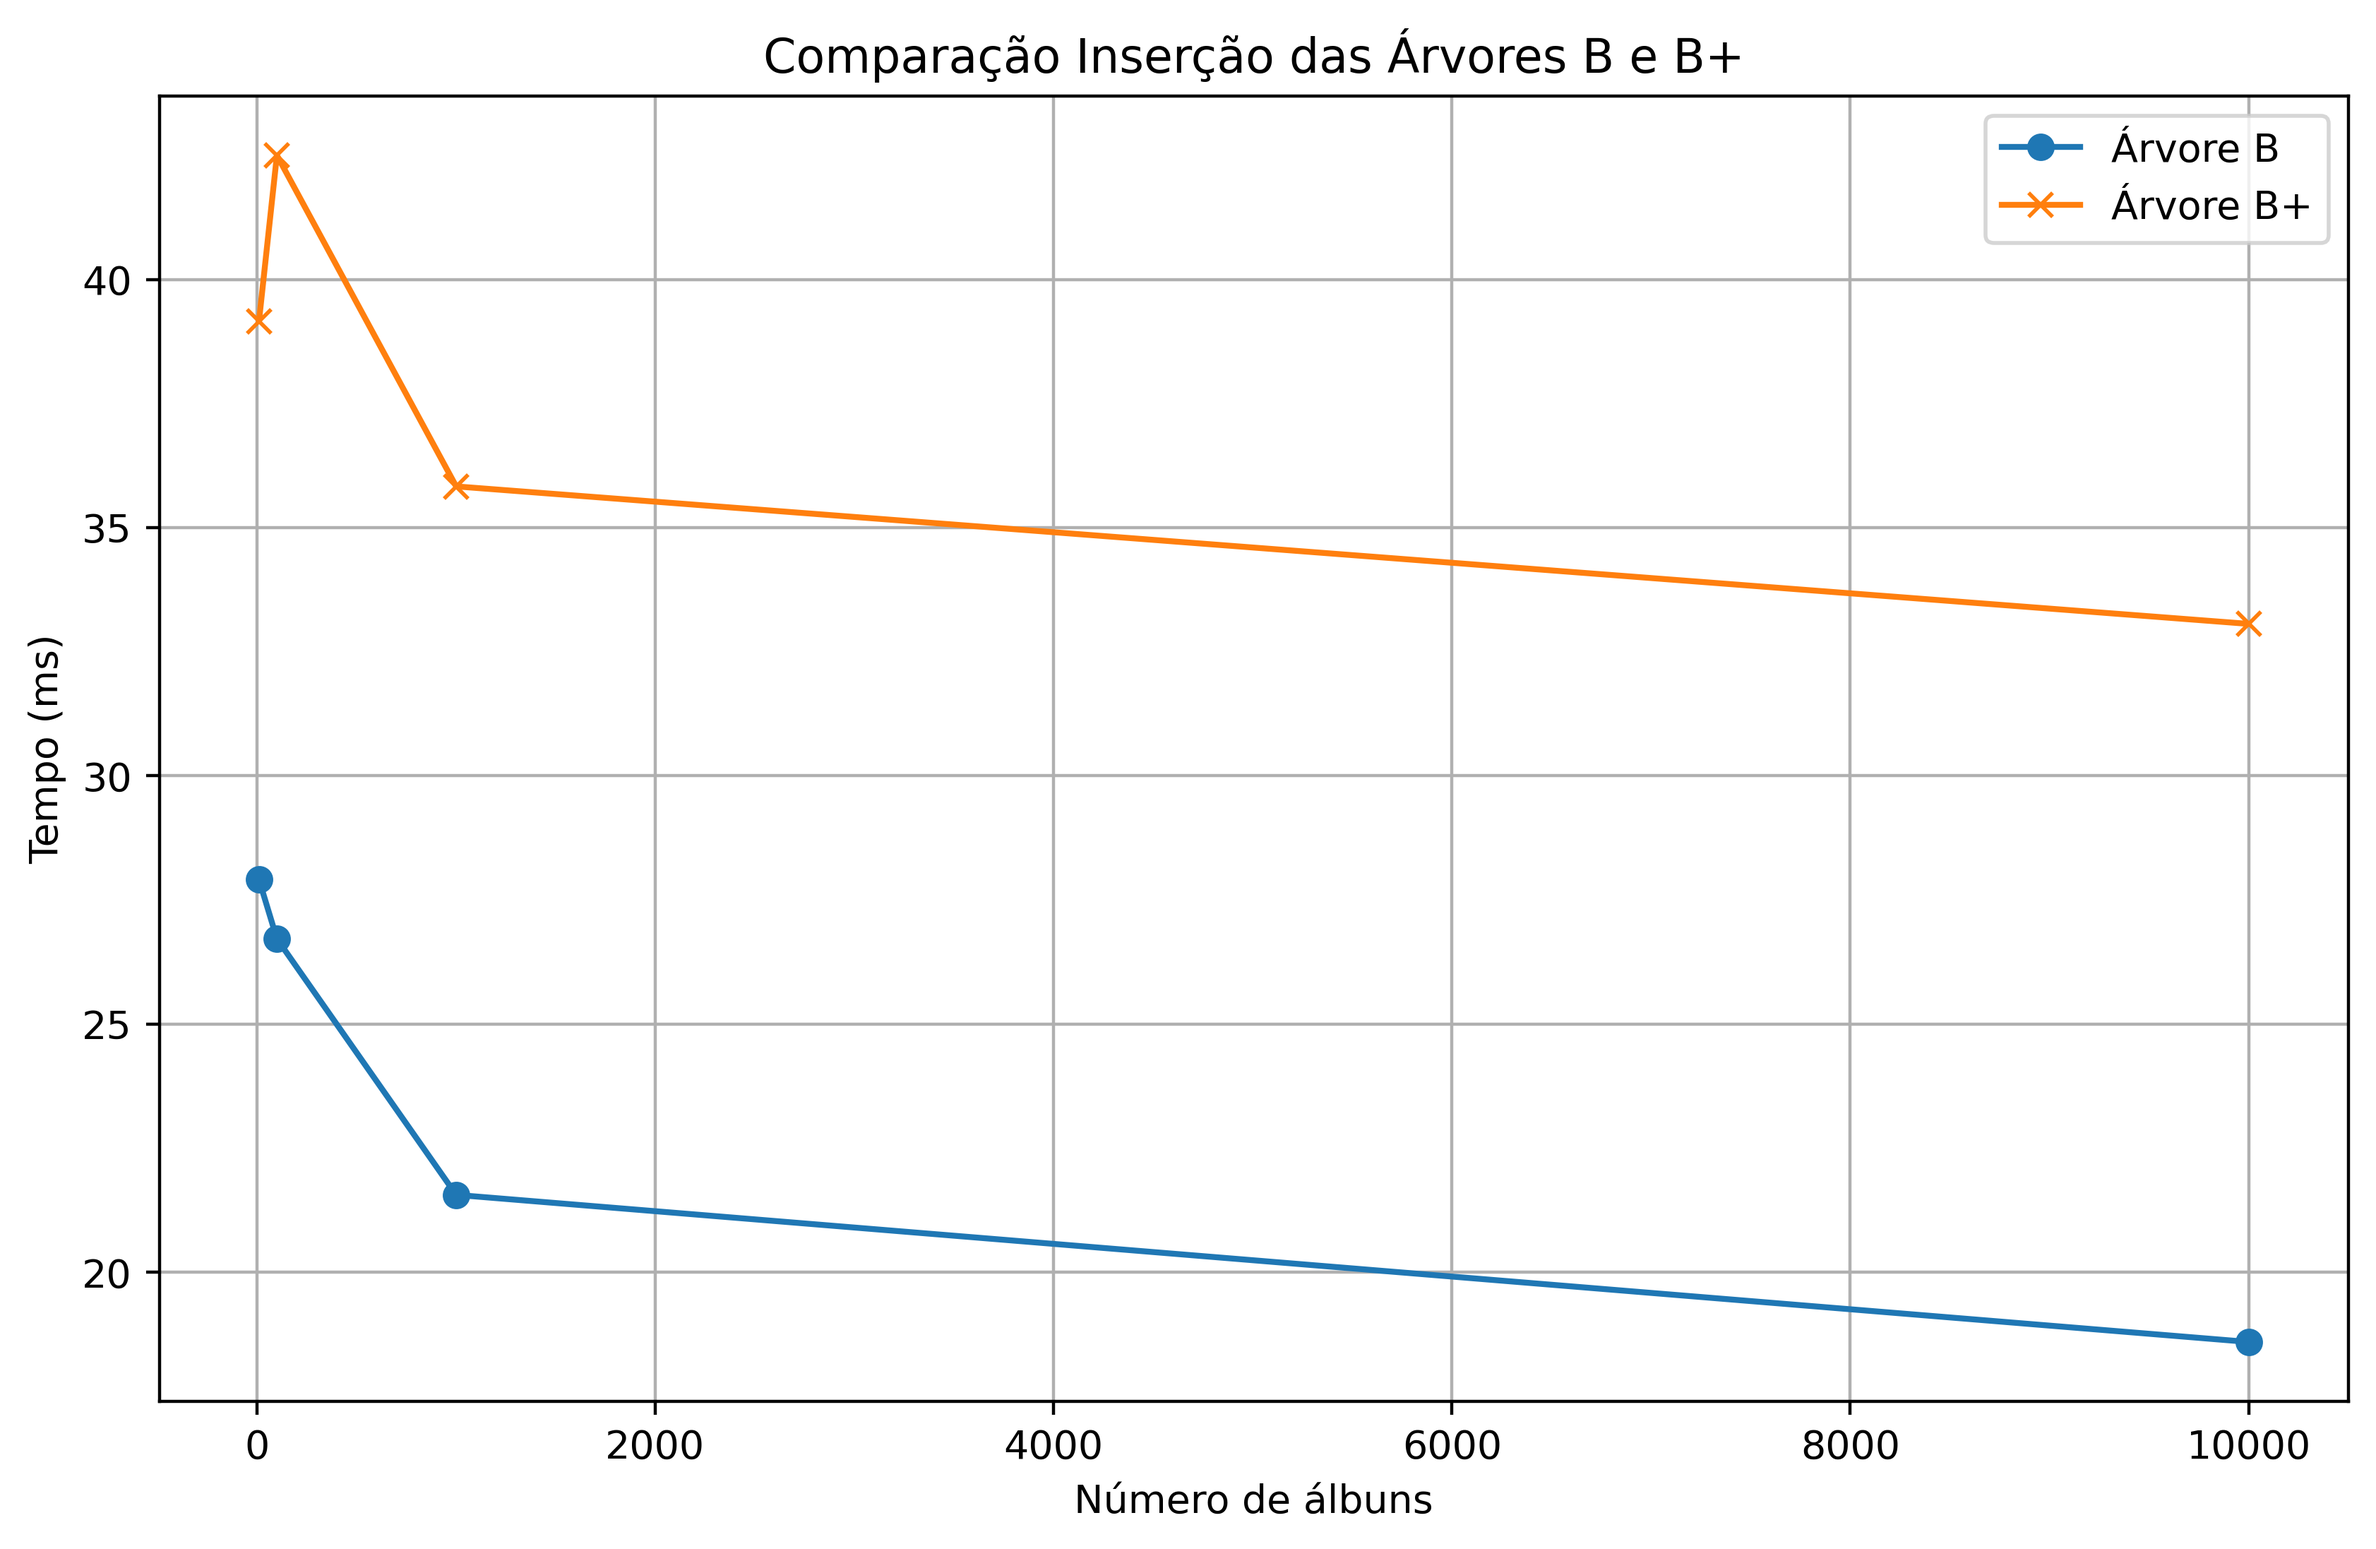
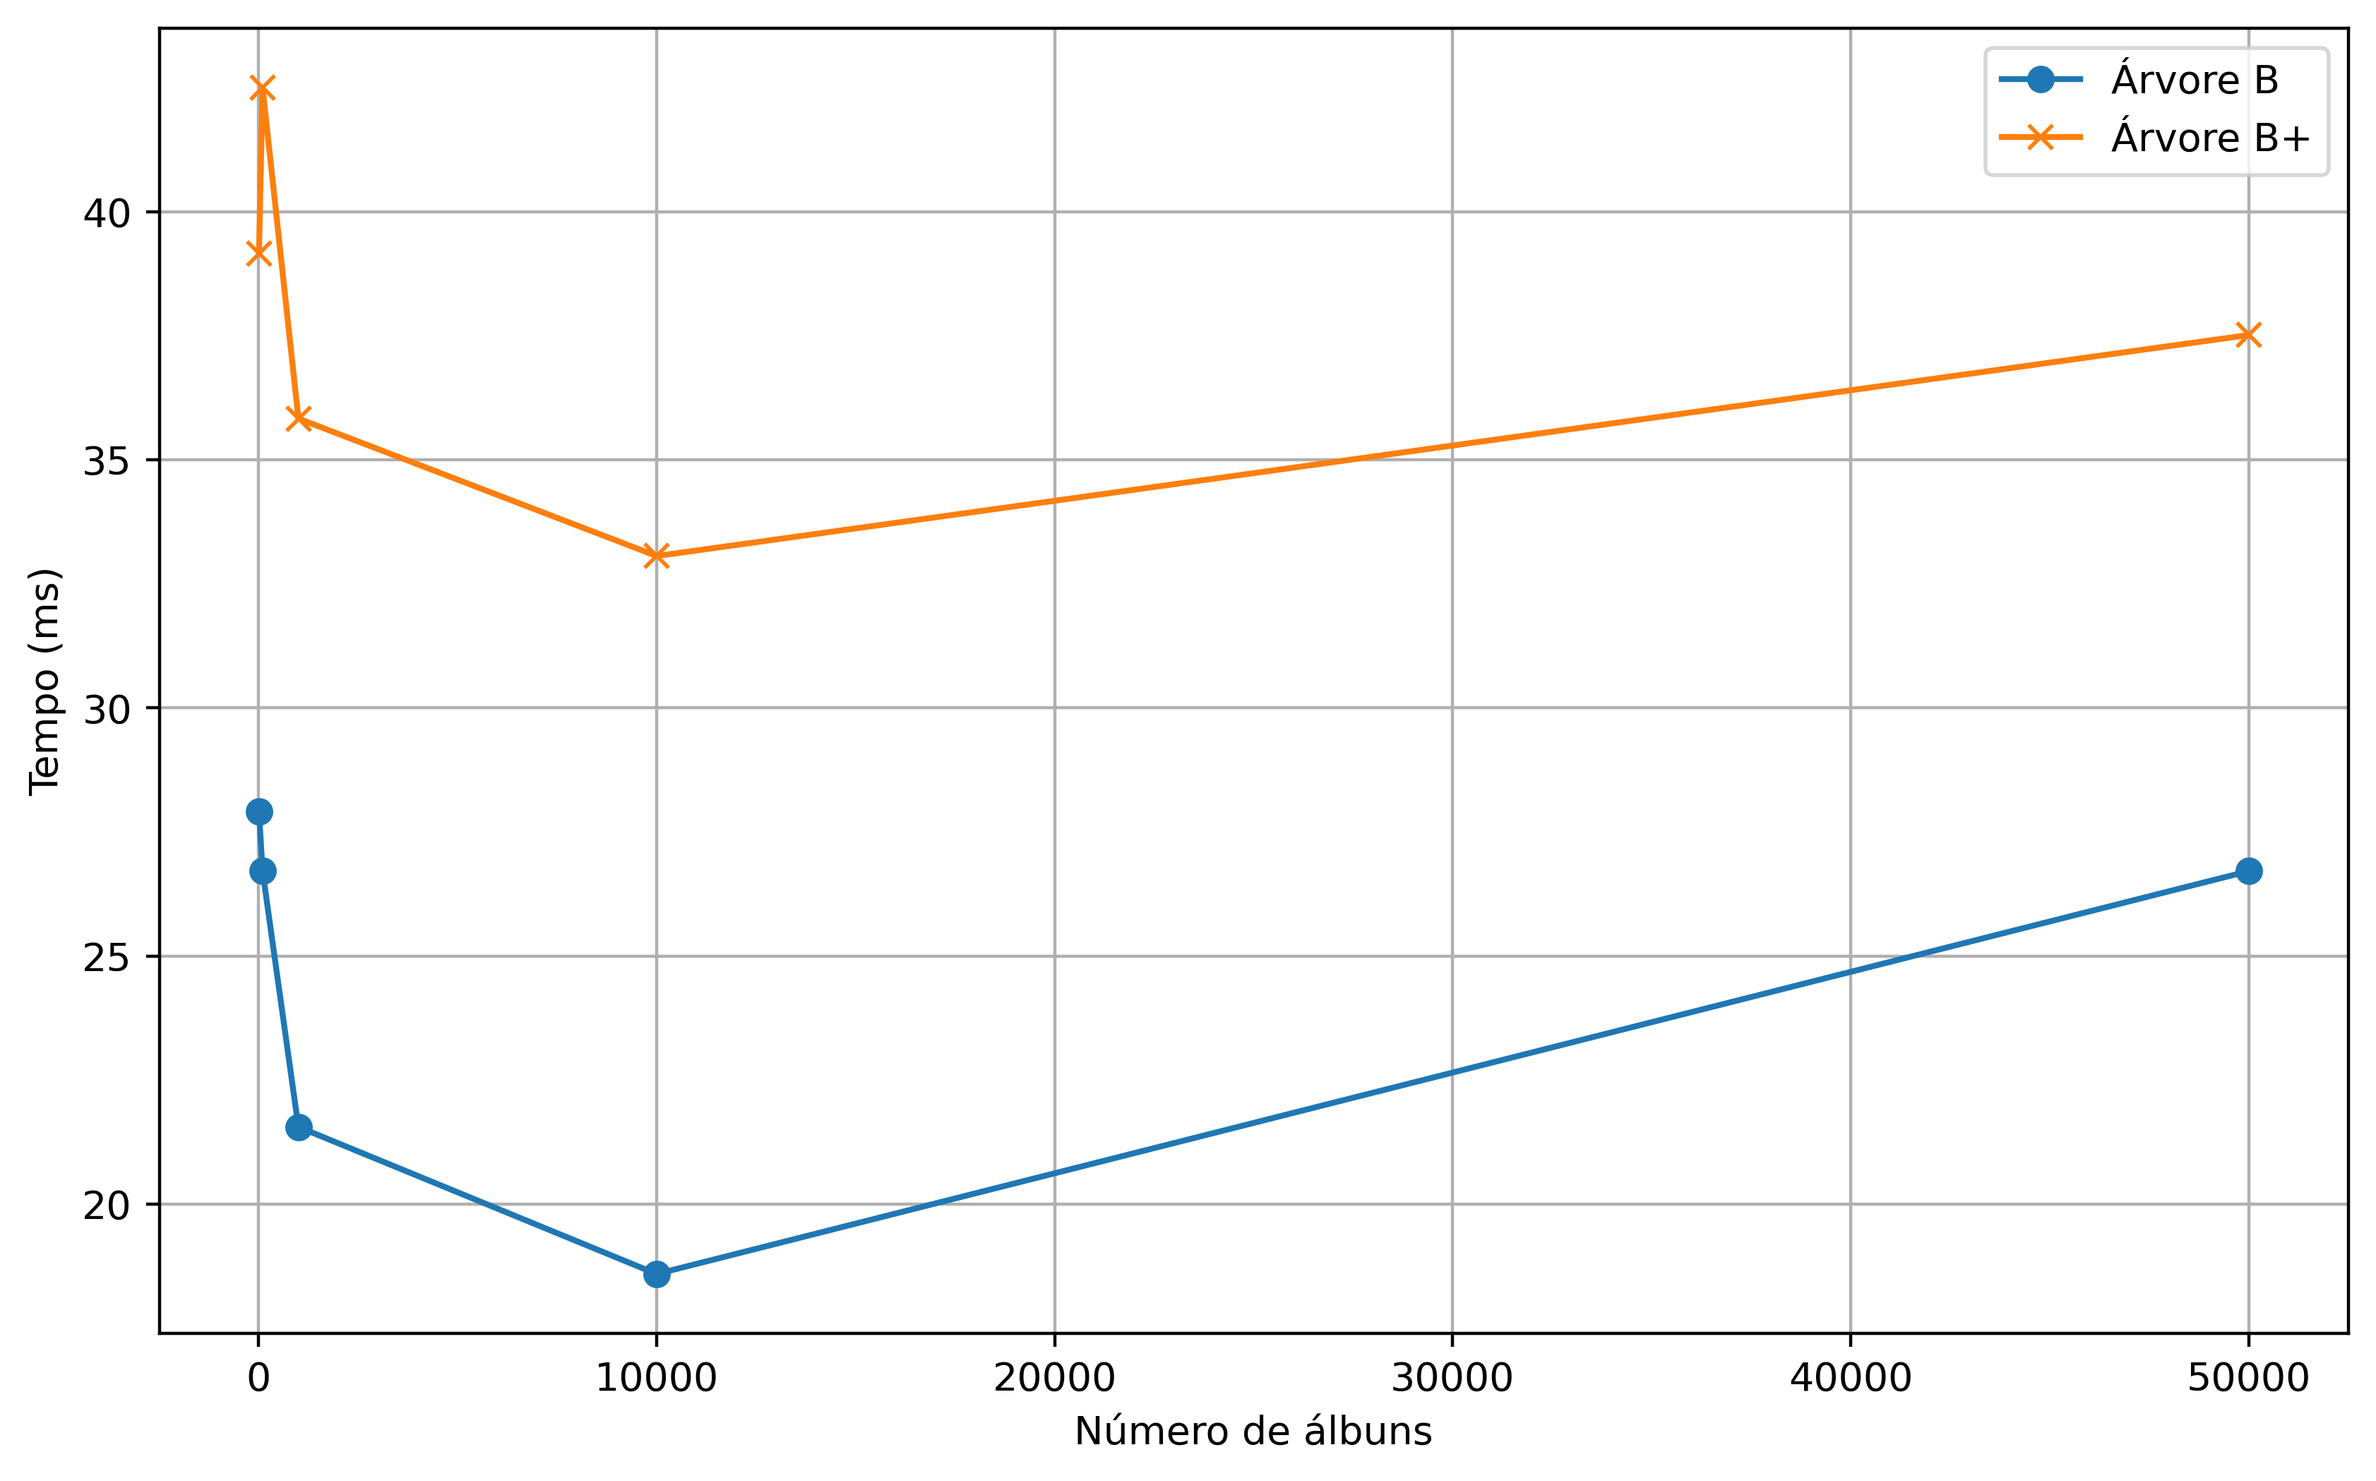
docs: atualiza resultados

diff --git a/article/main.tex b/article/main.tex
@@ -372,6 +372,90 @@ Tabela~\ref{tab:complexidades}.
 \end{tabular}
 \end{table}
 
+Foram executados \emph{benchmarks} de tempo de execução com base nas operações
+de mais importância, inserção e busca, nas duas estruturas de árvores para
+comparar objetivamente as estatísticas de cada uma. Para isso, foi executada uma
+inserção pseudo-randômica usando uma \emph{seed} pré-definida que selecionou,
+dentre uma lista extensa de compositores extraído da
+Wikipédia\footnote{\url{https://en.wikipedia.org/wiki/List_of_composers_by_name}},
+autores, e, com base numa distribuição binomial com média 20 e desvio 0,203 da
+quantidade de gravações por composição, permitindo uma simulação comparável com
+a realidade.
+
+Usando essa metodologia, foram rodados diversos testes variando a quantidade de
+álbuns de 11 a 50001 para as duas árvores, armazenando o valor mínimo, médio e
+máximo para cada variação, observado pela \ref{tab:resultados}. Também, a partir
+desses valores, foram criados dois gráficos, \ref{fig:graph_insert}
+\ref{fig:graph_search}, comparando diretamente o tempo médio de inserção e busca de
+cada árvore.
+
+\begin{table}[ht]
+\centering
+\caption{Tabela de tempo gasto (ms) em operações nas árvores B e B\nolinebreak+}
+\label{tab:resultados}
+\begin{tabular}{|c|c|c|c|c|c|}
+\hline
+  Estrutura & Álbuns & Operação & Mínimo & Médio & Máximo \\ \hline
+  \multirow{10}{*}{Árvore B} & \multirow{2}{*}{11} & Inserção & 15.0585 & 27.9099 & 47.8788 \\
+                            & & Busca    & 0.0969 & 0.167911 & 1.3125	 \\
+                  \cline{2-6} &  \multirow{2}{*}{101} & Inserção & 7.0789 & 26.7159 & 96.4244 \\
+                            & & Busca    & 0.2041 & 0.283696 & 2.2549	 \\
+                  \cline{2-6} &  \multirow{2}{*}{1001} & Inserção & 5.1006 & 21.5568 & 745.0050 \\
+                            & & Busca    & 0.1968 & 0.258417 & 7.2308	 \\
+                  \cline{2-6} &  \multirow{2}{*}{10001} & Inserção & 4.8288 & 18.5928 & 7220.0200 \\
+                            & & Busca    & 0.1844 & 0.245400 & 3.0743	 \\
+                  \cline{2-6} &  \multirow{2}{*}{50001} & Inserção & 4.8917 & 26.7119 & 41062.2 \\
+                            & & Busca    & 0.2019 & 0.285582 & 5.2455	 \\
+  \hline
+
+  \multirow{10}{*}{Árvore B\nolinebreak+} & \multirow{2}{*}{11} & Inserção & 8.0324 & 39.1596 & 48.9896 \\
+                            & & Busca    & 1.5894 & 2.12140 & 79.6278	 \\
+                  \cline{2-6} &  \multirow{2}{*}{101} & Inserção & 9.2234 & 42.5022 & 178.4730 \\
+                            & & Busca    & 1.4827 & 1.95975 & 20.4496	 \\
+                  \cline{2-6} &  \multirow{2}{*}{1001} & Inserção & 8.2050 & 35.8312 & 780.4600 \\
+                            & & Busca    & 1.5804 & 1.82577 & 8.8614	 \\
+                  \cline{2-6} &  \multirow{2}{*}{10001} & Inserção & 7.7294 & 33.0609 & 7384.9900 \\
+                            & & Busca    & 1.6700 & 1.95760 & 12.3330	 \\
+                  \cline{2-6} &  \multirow{2}{*}{50001} & Inserção & 8.1941 & 37.5146 & 42112.9 \\
+                            & & Busca    & 1.6981 & 2.09856 & 336.733	 \\
+  \hline
+\end{tabular}
+\end{table}
+
+Por fim, comparando a \ref{tab:resultados} com a \ref{tab:complexidades}, é
+possível ver uma tendência para o esperado. A divergência no início dos gráficos
+é justificado pela variância das constantes dos algoritmos, como suas
+composições de instruções de baixo nível.
+
+\begin{figure}[ht]
+\centering
+\includegraphics[width=1\textwidth]{figuras/graph_insert.png}
+\caption{Resultado do tempo de execução operação inserir}
+\label{fig:graph_insert}
+\end{figure}
+
+\begin{figure}[ht]
+\centering
+\includegraphics[width=1\textwidth]{figuras/graph_search.png}
+\caption{Resultado do tempo de execução operação buscar}
+\label{fig:graph_search}
+\end{figure}
+
+% As árvores B e B\nolinebreak+ são úteis quando o conjunto de dados de consulta
+% é grande suficiente para não caber por completo na memória principal e precisa
+% ser acessado da memória secundária. Elas agem de maneira a buscar o menor
+% número de acessos ao disco para acessar efetivamente o registro requisitado. A
+% altura dessa estrutura de árvores está no intervalo de $[\log_{2t-1} (n+1),\
+% \log_t \frac{n + 1}{2}]$, onde $t$ é a ordem da árvore que indica a quantidade
+% mínima de registros armazenados em um nó e $n$ a quantidade de elementos
+% \cite{clrs:22}. Com isso, a quantidade de acessos a páginas do disco é de
+% complexidade $O(\log_t n)$, entretanto, demora o tempo $O(t)$ para percorrer
+% os registros dentro de cada nó, compondo no final a complexidade de $O(t
+% \log_t n)$ para buscas~\cite{clrs:22,Pm:10}. Por isso, são parte integrante da
+% estrutura central do projeto, pois permitem a indexação eficiente de cada
+% composição a partir de uma chave de identificação única, representado na
+% Tabela~\ref{tab:complexidades}.
+
 
 \section{Conclusão} \label{sec:conclusion}
 Diante dos dados apresentados, pode-se concluir que ambas tiveram 
